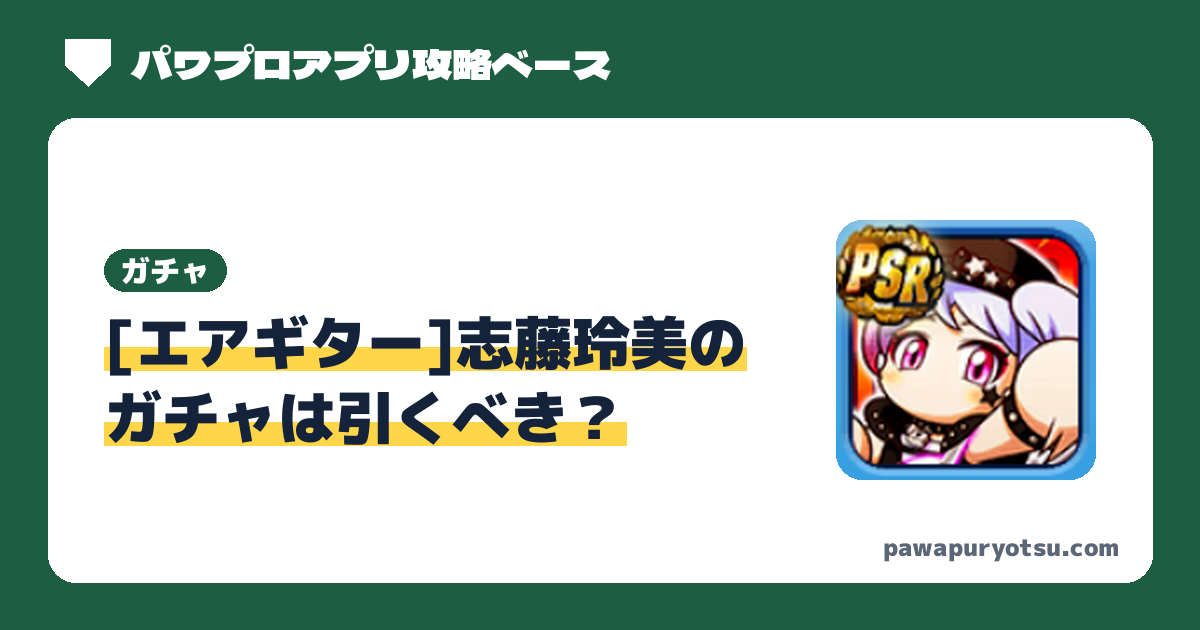
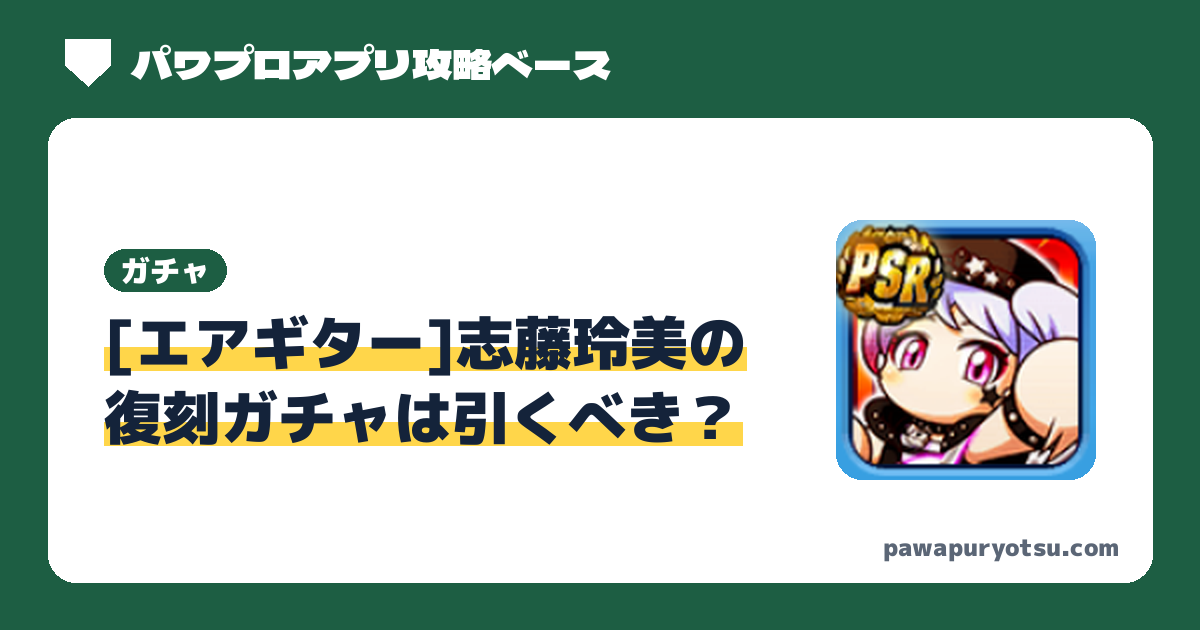
志藤玲美ガチャ記事：タイトル・見出しを「復刻ガチャは引くべき？」に（json の revival） (#331)
Claude-Session: https://claude.ai/code/session_019YJeT23XKeiK6pKwrHZGnB

Changed region(s): [[0.0617, 0.6032, 0.6167, 0.7238]]

diff --git a/docs/gacha/2026_1116_shido_remi/index.html b/docs/gacha/2026_1116_shido_remi/index.html
@@ -4,13 +4,13 @@
 <meta charset="utf-8">
 <meta name="viewport" content="width=device-width,initial-scale=1,viewport-fit=cover">
 <meta name="color-scheme" content="light">
-<title>[エアギター]志藤玲美のガチャは引くべき？何周で完成するか計算（SR Lv45・PSR Lv50）｜パワプロアプリ攻略ベース</title>
-<meta name="description" content="[エアギター]志藤玲美のガチャは引くべき？ループガチャ [エアギター]志藤玲美（復刻）で[エアギター]志藤玲美のSR Lv45・PSR Lv50を作るのに何周必要かを計算。SR・PSRが引ける確率、Lv40に届く確率、ダイジョーブ博士像を使う場合の確率と、実際に引いて試せるシミュレータつき。">
+<title>[エアギター]志藤玲美の復刻ガチャは引くべき？何周で完成するか計算（SR Lv45・PSR Lv50）｜パワプロアプリ攻略ベース</title>
+<meta name="description" content="[エアギター]志藤玲美の復刻ガチャは引くべき？ループガチャ [エアギター]志藤玲美（復刻）で[エアギター]志藤玲美のSR Lv45・PSR Lv50を作るのに何周必要かを計算。SR・PSRが引ける確率、Lv40に届く確率、ダイジョーブ博士像を使う場合の確率と、実際に引いて試せるシミュレータつき。">
 <link rel="canonical" href="https://pawapuryotsu.com/gacha/2026_1116_shido_remi/">
 <meta property="og:type" content="website">
 <meta property="og:site_name" content="パワプロアプリ攻略ベース">
-<meta property="og:title" content="[エアギター]志藤玲美のガチャは引くべき？何周で完成するか計算（SR Lv45・PSR Lv50）｜パワプロアプリ攻略ベース">
-<meta property="og:description" content="[エアギター]志藤玲美のガチャは引くべき？ループガチャ [エアギター]志藤玲美（復刻）で[エアギター]志藤玲美のSR Lv45・PSR Lv50を作るのに何周必要かを計算。SR・PSRが引ける確率、Lv40に届く確率、ダイジョーブ博士像を使う場合の確率と、実際に引いて試せるシミュレータつき。">
+<meta property="og:title" content="[エアギター]志藤玲美の復刻ガチャは引くべき？何周で完成するか計算（SR Lv45・PSR Lv50）｜パワプロアプリ攻略ベース">
+<meta property="og:description" content="[エアギター]志藤玲美の復刻ガチャは引くべき？ループガチャ [エアギター]志藤玲美（復刻）で[エアギター]志藤玲美のSR Lv45・PSR Lv50を作るのに何周必要かを計算。SR・PSRが引ける確率、Lv40に届く確率、ダイジョーブ博士像を使う場合の確率と、実際に引いて試せるシミュレータつき。">
 <meta property="og:url" content="https://pawapuryotsu.com/gacha/2026_1116_shido_remi/">
 <meta property="og:image" content="https://pawapuryotsu.com/img/og/gacha_2026_1116_shido_remi.png">
 <meta property="og:image:width" content="1200">
@@ -30,7 +30,7 @@
 <script async src="https://www.googletagmanager.com/gtag/js?id=G-F98XGNW3LS"></script>
 <script>window.dataLayer=window.dataLayer||[];function gtag(){dataLayer.push(arguments)}gtag('js',new Date());gtag('config','G-F98XGNW3LS');</script><meta name="google-site-verification" content="ZgxID967oum-2Mm1F5BCX9gvQE_vNl2ZDbXXWfyYP10" />
 <script type="application/ld+json">{"@context": "https://schema.org", "@type": "BreadcrumbList", "itemListElement": [{"@type": "ListItem", "position": 1, "name": "トップ", "item": "https://pawapuryotsu.com/"}, {"@type": "ListItem", "position": 2, "name": "[エアギター]志藤玲美のガチャ", "item": "https://pawapuryotsu.com/gacha/2026_1116_shido_remi/"}]}</script>
-<script type="application/ld+json">{"@context": "https://schema.org", "@type": "Article", "headline": "[エアギター]志藤玲美のガチャは引くべき？何周で完成するか計算（SR Lv45・PSR Lv50）", "datePublished": "2026-11-16", "dateModified": "2026-11-16", "image": "https://pawapuryotsu.com/img/og/gacha_2026_1116_shido_remi.png", "author": {"@type": "Person", "name": "りょーつー", "url": "https://pawapuryotsu.com/about/"}}</script>
+<script type="application/ld+json">{"@context": "https://schema.org", "@type": "Article", "headline": "[エアギター]志藤玲美の復刻ガチャは引くべき？何周で完成するか計算（SR Lv45・PSR Lv50）", "datePublished": "2026-11-16", "dateModified": "2026-11-16", "image": "https://pawapuryotsu.com/img/og/gacha_2026_1116_shido_remi.png", "author": {"@type": "Person", "name": "りょーつー", "url": "https://pawapuryotsu.com/about/"}}</script>
 </head>
 <body data-root="../../">
 <svg width="0" height="0" style="position:absolute" aria-hidden="true">
@@ -58,7 +58,7 @@
 
 <main><div class="wrap" id="page">
 <nav class="crumbs" aria-label="パンくずリスト"><ol><li><a href="../../">トップ</a></li><li aria-current="page">[エアギター]志藤玲美のガチャ</li></ol></nav>
-<section class="phead"><p class="eyebrow">ガチャ</p><h1><span class="mk"><i>[エアギター]志藤玲美の</i><i>ガチャは</i> <i>引くべき？</i></span></h1><p class="pubdate">公開日 <time datetime="2026-11-16">2026/11/16</time>・更新日 <time datetime="2026-11-16">2026/11/16</time></p><p>ループガチャ [エアギター]志藤玲美（復刻）で、[エアギター]志藤玲美のSR Lv45・PSR Lv50を作るのに何周必要かを<span class="cp-nw">計算しました。</span>引くべきか迷っている人は、下の確率と<span class="cp-nw">石の数を目安にしてください。</span></p></section>
+<section class="phead"><p class="eyebrow">ガチャ</p><h1><span class="mk"><i>[エアギター]志藤玲美の</i><i>復刻ガチャは</i> <i>引くべき？</i></span></h1><p class="pubdate">公開日 <time datetime="2026-11-16">2026/11/16</time>・更新日 <time datetime="2026-11-16">2026/11/16</time></p><p>ループガチャ [エアギター]志藤玲美（復刻）で、[エアギター]志藤玲美のSR Lv45・PSR Lv50を作るのに何周必要かを<span class="cp-nw">計算しました。</span>引くべきか迷っている人は、下の確率と<span class="cp-nw">石の数を目安にしてください。</span></p></section>
 <div class="prose">
   <div class="g-info"><p class="g-meta"><img src="../../img/chars/0010.png" alt="" width="44" height="44"><span>開催期間：<span class="cp-nw">2026年11月16日(月)14:00</span>〜<span class="cp-nw">12月4日(金)13:59</span><br><a href="../../chars/0010/">[エアギター]志藤玲美の<span class="cp-nw">データ・イベントはこちら</span></a></span></p></div>
   <h2 id="eval">管理人の評価</h2><p>結論：今は様子見でいいです。</p><p>[エアギター]志藤は<span class="tx-r tx-bold">基礎ボーナスの合計が12と最近登場したキャラの中ではかなり低い方で、次期シナリオでは外野育成以外での活躍は期待できません。</span></p><p>新シナリオ実装日は11/26アップデート後が濃厚なので、アンドロメダ学園ラストスパートで遊びたいという人以外は<span class="tx-b tx-bold">11/26のアップデート後まで様子見するのが賢明な判断です。</span></p><p>覚醒が来てくれれば次期シナリオでも活躍できるかも…？</p><p class="cp-evdate"><span class="rk-date">【記入日2026/11/17】</span></p><h3>イベキャラとしての評価</h3><div class="rk-box"><div class="rk-head"><span class="tier tier-S">S</span><a href="../../ranking/andromeda/">アンドロメダ学園 11月ランキング</a><span class="rk-date">【評価日2026/11/09】</span></div></div><div class="rk-box"><div class="rk-head"><span class="tier tier-C">C</span><a href="../../ranking/next_batter/">次期野手シナリオ有能キャラ予想</a><span class="rk-date">【評価日2026/11/11】</span></div></div><p><a href="../../chars/0010/">[エアギター]志藤玲美の<span class="cp-nw">ページを見る</span></a></p>

diff --git a/docs/chars/0010/index.html b/docs/chars/0010/index.html
@@ -65,7 +65,7 @@
 <section class="cp-sec"><h2>[エアギター]志藤玲美<span class="cp-tail">の評価</span></h2><div class="rk-box"><div class="rk-head"><span class="tier tier-S">S</span><a href="../../ranking/andromeda/">アンドロメダ学園 11月ランキング</a><span class="rk-date">【評価日2026/11/09】</span></div></div><div class="rk-box"><div class="rk-head"><span class="tier tier-C">C</span><a href="../../ranking/next_batter/">次期野手シナリオ有能キャラ予想</a><span class="rk-date">【評価日2026/11/11】</span></div></div><p>【長所】</p><p>・<span class="tx-b tx-bold">至高の外野手を獲得可能。</span>現在のアンドロメダ学園の外野手育成において必須クラスのキャラクターとなっている。</p><p>・<span class="tx-b">Lv35とPSR50で試合経験点5％しか変わらない</span>ので、上限開放していなくても運用しやすい。</p><p>【短所】</p><p>・イベキャラ全体で見るとコツボナと試合経験点は圧倒的に高い訳ではない。また、肩力を上げるポジションでは精神ブースターは不要なのでやや汎用性に欠ける。</p><p>・基礎ボーナスが12しかないので、次期環境での活躍は厳しいかもしれない。</p><p class="cp-evdate"><span class="rk-date">【記入日2026/11/07】</span></p></section>
 <section class="cp-sec"><h2>[エアギター]志藤玲美<span class="cp-tail">の使用デッキ例</span></h2><div class="cp-deck"><p><a href="../../decks/andromeda/">アンドロメダ学園</a>（外・メイン）</p><img class="r" src="../../img/decks/result_andromeda_10.jpg" alt="アンドロメダ学園のデッキ画像" loading="lazy"><img class="d" src="../../img/decks/main_andromeda_10.jpg" alt="アンドロメダ学園のデッキ画像" loading="lazy"></div><div class="cp-deck"><p><a href="../../decks/andromeda/">アンドロメダ学園</a>（外・メイン）</p><img class="r" src="../../img/decks/result_edo.jpg" alt="アンドロメダ学園のデッキ画像" loading="lazy"><img class="d" src="../../img/decks/main_edo.jpg" alt="アンドロメダ学園のデッキ画像" loading="lazy"></div><details class="cp-more"><summary>その他のデッキはこちらをタップ</summary><div class="cp-deck"><p><a href="../../decks/andromeda/">アンドロメダ学園</a>（二・メイン）</p><img class="r" src="../../img/decks/result_andromeda_6.jpg" alt="アンドロメダ学園のデッキ画像" loading="lazy"><img class="d" src="../../img/decks/main_andromeda_6.jpg" alt="アンドロメダ学園のデッキ画像" loading="lazy"></div><div class="cp-deck"><p><a href="../../decks/andromeda/">アンドロメダ学園</a>（捕・メイン）</p><img class="r" src="../../img/decks/result_andromeda_3.jpg" alt="アンドロメダ学園のデッキ画像" loading="lazy"><img class="d" src="../../img/decks/main_andromeda_3.jpg" alt="アンドロメダ学園のデッキ画像" loading="lazy"></div></details></section>
 <section class="cp-sec"><h2>[エアギター]志藤玲美<span class="cp-tail">の選手能力</span></h2><table class="cp-basic"><tbody><tr><th>選手ランク</th><td><div class="rkline"><span class="rk rk-B" aria-label="ランクB">B</span><b class="nm">74</b></div></td></tr><tr><th>メインポジション</th><td>外</td></tr><tr><th>サブポジション</th><td>なし</td></tr><tr><th>利き腕</th><td>左投左打</td></tr></tbody></table><h3>野手能力</h3><div class="cp-tiles" style="--n:7"><div class="at"><span class="lb">弾道</span><svg class="traj" viewBox="-20 -20 40 40" role="img" aria-label="弾道2"><g transform="rotate(-25)"><path d="M-15 -5H2V-13L16 0L2 13V5H-15Z" fill="#ff9a1a" stroke="#fff" stroke-width="2" stroke-linejoin="round"/></g></svg><b class="nm">2</b></div><div class="at"><span class="lb">ミート</span><span class="rk rk-C" aria-label="ランクC">C</span><b class="nm">69</b></div><div class="at"><span class="lb">パワー</span><span class="rk rk-C" aria-label="ランクC">C</span><b class="nm">62</b></div><div class="at"><span class="lb">走力</span><span class="rk rk-B" aria-label="ランクB">B</span><b class="nm">71</b></div><div class="at"><span class="lb">肩力</span><span class="rk rk-D" aria-label="ランクD">D</span><b class="nm">55</b></div><div class="at"><span class="lb">守備力</span><span class="rk rk-B" aria-label="ランクB">B</span><b class="nm">70</b></div><div class="at"><span class="lb">捕球</span><span class="rk rk-D" aria-label="ランクD">D</span><b class="nm">52</b></div></div><h3>野手特殊能力</h3><div class="cp-sp"><span class="sp sp-blue">走塁○</span><span class="sp sp-blue">アベレージヒッター</span><span class="sp sp-blue">広角打法</span><span class="sp sp-blue">守備職人</span><span class="sp sp-blue">打球ノビ○</span></div><h3>その他特殊能力</h3><div class="cp-sp"><span class="sp sp-green">積極打法</span><span class="sp sp-green">積極盗塁</span><span class="sp sp-green">積極守備</span></div></section>
-<section class="cp-sec"><h2>関連ページ</h2><ul class="rk-list cp-rel"><li><a href="../../chars/">イベキャラ一覧</a></li><li><a href="../../gacha/2026_1116_shido_remi/">[エアギター]志藤玲美のガチャは引くべき？</a></li></ul><h3>アンドロメダ学園 11月ランキングで同じSランクのキャラ</h3><ul class="cp-rel cp-relchips"><li><a href="../../chars/0003/">天道あかね</a></li><li><a href="../../chars/0028/">ピンク</a></li><li><a href="../../chars/0023/">枢木スザク</a></li><li><a href="../../chars/0022/">紅月カレン</a></li><li><a href="../../chars/0002/">早乙女乱馬</a></li><li><a href="../../chars/0018/">パワ子</a></li></ul><h3>次期野手シナリオ有能キャラ予想で同じCランクのキャラ</h3><ul class="cp-rel cp-relchips"><li><a href="../../chars/0028/">ピンク</a></li><li><a href="../../chars/0024/">[応援団]エイル・オーウェン</a></li><li><a href="../../chars/0023/">枢木スザク</a></li><li><a href="../../chars/0002/">早乙女乱馬</a></li><li><a href="../../chars/0012/">フォイボス</a></li><li><a href="../../chars/0018/">パワ子</a></li></ul></section>
+<section class="cp-sec"><h2>関連ページ</h2><ul class="rk-list cp-rel"><li><a href="../../chars/">イベキャラ一覧</a></li><li><a href="../../gacha/2026_1116_shido_remi/">[エアギター]志藤玲美の復刻ガチャは引くべき？</a></li></ul><h3>アンドロメダ学園 11月ランキングで同じSランクのキャラ</h3><ul class="cp-rel cp-relchips"><li><a href="../../chars/0003/">天道あかね</a></li><li><a href="../../chars/0028/">ピンク</a></li><li><a href="../../chars/0023/">枢木スザク</a></li><li><a href="../../chars/0022/">紅月カレン</a></li><li><a href="../../chars/0002/">早乙女乱馬</a></li><li><a href="../../chars/0018/">パワ子</a></li></ul><h3>次期野手シナリオ有能キャラ予想で同じCランクのキャラ</h3><ul class="cp-rel cp-relchips"><li><a href="../../chars/0028/">ピンク</a></li><li><a href="../../chars/0024/">[応援団]エイル・オーウェン</a></li><li><a href="../../chars/0023/">枢木スザク</a></li><li><a href="../../chars/0002/">早乙女乱馬</a></li><li><a href="../../chars/0012/">フォイボス</a></li><li><a href="../../chars/0018/">パワ子</a></li></ul></section>
 </div></main>
 
 <footer class="site"><div class="wrap">

diff --git a/docs/index.html b/docs/index.html
@@ -72,13 +72,13 @@
 </section>
 
 <h2 class="sec"><span class="mk red"><i>最近の更新</i></span></h2>
-<!--recent--><ul class="news recent"><li><a href="./gacha/2026_1116_shido_remi/"><img class="news-icon" src="./img/chars/0010.png" alt="" width="44" height="44" loading="lazy"><span><small class="rc-meta">2026/11/16 更新・ガチャ</small><b>[エアギター]志藤玲美<wbr><span class="cp-nw">のガチャは引くべき？</span></b></span></a></li><li class=rc-noimg><a href="./pawaque/saikyuki/"><span><small class="rc-meta">2026/11/16 更新・パワクエ</small><b>パワクエ西球記の攻略</b></span></a></li><li class=rc-noimg><a href="./pawaque/mission/"><span><small class="rc-meta">2026/11/16 更新・パワクエ</small><b>ミッション報酬まとめ</b></span></a></li><li class=rc-noimg><a href="./pawaque/coach/"><span><small class="rc-meta">2026/11/16 更新・パワクエ</small><b>コーチ専用選手の作り方</b></span></a></li><li class=rc-noimg><a href="./pawaque/basics/"><span><small class="rc-meta">2026/11/16 更新・パワクエ</small><b>パワクエ超基本まとめ</b></span></a></li><li class=rc-noimg><a href="./pawaque/"><span><small class="rc-meta">2026/11/16 更新・パワクエ</small><b>パワクエ攻略まとめ</b></span></a></li><li class=rc-noimg><a href="./guide/limit_break/"><span><small class="rc-meta">2026/11/12 更新・ガイド</small><b>イベキャラの上限開放のルール</b></span></a></li><li><a href="./gacha/2026_1111_shampoo/"><img class="news-icon" src="./img/chars/0042.png" alt="" width="44" height="44" loading="lazy"><span><small class="rc-meta">2026/11/12 更新・ガチャ</small><b>シャンプー<wbr><span class="cp-nw">のガチャは引くべき？</span></b></span></a></li></ul><!--/recent-->
+<!--recent--><ul class="news recent"><li><a href="./gacha/2026_1116_shido_remi/"><img class="news-icon" src="./img/chars/0010.png" alt="" width="44" height="44" loading="lazy"><span><small class="rc-meta">2026/11/16 更新・ガチャ</small><b>[エアギター]志藤玲美<wbr><span class="cp-nw">の復刻ガチャは引くべき？</span></b></span></a></li><li class=rc-noimg><a href="./pawaque/saikyuki/"><span><small class="rc-meta">2026/11/16 更新・パワクエ</small><b>パワクエ西球記の攻略</b></span></a></li><li class=rc-noimg><a href="./pawaque/mission/"><span><small class="rc-meta">2026/11/16 更新・パワクエ</small><b>ミッション報酬まとめ</b></span></a></li><li class=rc-noimg><a href="./pawaque/coach/"><span><small class="rc-meta">2026/11/16 更新・パワクエ</small><b>コーチ専用選手の作り方</b></span></a></li><li class=rc-noimg><a href="./pawaque/basics/"><span><small class="rc-meta">2026/11/16 更新・パワクエ</small><b>パワクエ超基本まとめ</b></span></a></li><li class=rc-noimg><a href="./pawaque/"><span><small class="rc-meta">2026/11/16 更新・パワクエ</small><b>パワクエ攻略まとめ</b></span></a></li><li class=rc-noimg><a href="./guide/limit_break/"><span><small class="rc-meta">2026/11/12 更新・ガイド</small><b>イベキャラの上限開放のルール</b></span></a></li><li><a href="./gacha/2026_1111_shampoo/"><img class="news-icon" src="./img/chars/0042.png" alt="" width="44" height="44" loading="lazy"><span><small class="rc-meta">2026/11/12 更新・ガチャ</small><b>シャンプー<wbr><span class="cp-nw">のガチャは引くべき？</span></b></span></a></li></ul><!--/recent-->
 
 <h2 class="sec"><span class="mk orange"><i>ガチャ</i></span></h2>
 <div class="grid2">
-  <a class="scard" href="./gacha/2026_1116_shido_remi/"><span class="tag p">[エアギター]志藤玲美</span><h3>[エアギター]志藤玲美のガチャは引くべき？</h3><p>SR Lv45・PSR Lv50の完成確率と<span class="cp-nw">シミュレータ。</span></p><span class="go" aria-hidden="true">→</span></a>
-  <a class="scard" href="./gacha/2026_1111_shampoo/"><span class="tag p">シャンプー</span><h3>シャンプーのガチャは引くべき？</h3><p>SR Lv45・PSR Lv50の完成確率と<span class="cp-nw">シミュレータ。</span></p><span class="go" aria-hidden="true">→</span></a>
-  <a class="scard" href="./gacha/2026_1104_ranma_akane/"><span class="tag p">早乙女乱馬・天道あかね</span><h3>早乙女乱馬・天道あかねのガチャは引くべき？</h3><p>SR Lv45・PSR Lv50の完成確率と<span class="cp-nw">シミュレータ。</span></p><span class="go" aria-hidden="true">→</span></a>
+  <a class="scard" href="./gacha/2026_1116_shido_remi/"><span class="tag p">[エアギター]志藤玲美</span><h3><span class="cp-nw">[エアギター]志藤玲美の</span><span class="cp-nw">復刻ガチャは</span><span class="cp-nw">引くべき？</span></h3><p>SR Lv45・PSR Lv50の完成確率と<span class="cp-nw">シミュレータ。</span></p><span class="go" aria-hidden="true">→</span></a>
+  <a class="scard" href="./gacha/2026_1111_shampoo/"><span class="tag p">シャンプー</span><h3><span class="cp-nw">シャンプーの</span><span class="cp-nw">ガチャは</span><span class="cp-nw">引くべき？</span></h3><p>SR Lv45・PSR Lv50の完成確率と<span class="cp-nw">シミュレータ。</span></p><span class="go" aria-hidden="true">→</span></a>
+  <a class="scard" href="./gacha/2026_1104_ranma_akane/"><span class="tag p">早乙女乱馬・天道あかね</span><h3><span class="cp-nw">早乙女乱馬・天道あかねの</span><span class="cp-nw">ガチャは</span><span class="cp-nw">引くべき？</span></h3><p>SR Lv45・PSR Lv50の完成確率と<span class="cp-nw">シミュレータ。</span></p><span class="go" aria-hidden="true">→</span></a>
 </div>
 
 <h2 class="sec"><span class="mk yg"><i>サクセス デッキまとめ</i></span></h2>

diff --git a/gachapages.py b/gachapages.py
@@ -44,6 +44,11 @@ def _rate_table(g):
                if g.get("charas") else f'<p>{e(g["chara"])}のみの枠以外で、そのレアリティが出たときに{e(g["chara"])}になる割合：{share}</p>'))
 
 
+def gw(g):
+    """タイトル・見出しでの呼び方。イベキャラ復刻のガチャ（json の "revival": true）は「復刻ガチャ」（管理人 2026-11-17）"""
+    return "復刻ガチャ" if g.get("revival") else "ガチャ"
+
+
 def _eval_html(g, src_dir):
     """「管理人の評価」。comment＝管理人の考え（文字の色指定 {太:…} などはキャラページと同じ）。
     イベキャラとしての評価は、ランキングでのランクだけ出す（評価文は長くなるので載せない。管理人 2026-11-12）"""
@@ -138,9 +143,9 @@ def _body(g, root_icon, src_dir):
     if multi:
         metas = f'<p>開催期間：{_period(g["period"])}</p>' + metas
     # 見出し：キャラ名の途中で改行しないように、名前ごとに区切る
-    h1 = ("".join(f'<i>{e(ch["chara"])}{"・" if i < len(chs) - 1 else "の"}</i>' for i, ch in enumerate(chs)) + " <i>ガチャは</i> <i>引くべき？</i>"
-          if multi else f'<i>{e(g["chara"])}の</i><i>ガチャは</i> <i>引くべき？</i>' if len(g["chara"]) >= 8   # 長い名前はスマホで名前の途中で折り返さないよう分ける
-          else f'<i>{e(g["chara"])}のガチャは</i> <i>引くべき？</i>')
+    h1 = ("".join(f'<i>{e(ch["chara"])}{"・" if i < len(chs) - 1 else "の"}</i>' for i, ch in enumerate(chs)) + f" <i>{gw(g)}は</i> <i>引くべき？</i>"
+          if multi else f'<i>{e(g["chara"])}の</i><i>{gw(g)}は</i> <i>引くべき？</i>' if len(g["chara"]) >= 8   # 長い名前はスマホで名前の途中で折り返さないよう分ける
+          else f'<i>{e(g["chara"])}の{gw(g)}は</i> <i>引くべき？</i>')
     nm = lambda ch: e(ch.get("short", ch["chara"]))
     both_notes = [
         "選択ガチャ券は取っておき、引き終わってから、2人とも完成する確率が一番高くなるように2人に分けて使います（1人ずつの確率では、券を全部そのキャラに使います）。",
@@ -244,12 +249,12 @@ def generate(src):
         else:
             g["tables"] = load(f.stem)
         path = f'gacha/{g["id"]}/'
-        meta = (f'title: {g["chara"]}のガチャは引くべき？何周で完成するか計算（SR Lv45・PSR Lv50）｜パワプロアプリ攻略ベース\n'
-                f'description: {g["chara"]}のガチャは引くべき？{g["title"]}で{g["chara"]}のSR Lv45・PSR Lv50を作るのに何周必要かを計算。SR・PSRが引ける確率、Lv40に届く確率、ダイジョーブ博士像を使う場合の確率と、実際に引いて試せるシミュレータつき。\n'
+        meta = (f'title: {g["chara"]}の{gw(g)}は引くべき？何周で完成するか計算（SR Lv45・PSR Lv50）｜パワプロアプリ攻略ベース\n'
+                f'description: {g["chara"]}の{gw(g)}は引くべき？{g["title"]}で{g["chara"]}のSR Lv45・PSR Lv50を作るのに何周必要かを計算。SR・PSRが引ける確率、Lv40に届く確率、ダイジョーブ博士像を使う場合の確率と、実際に引いて試せるシミュレータつき。\n'
                 f"path: {path}\nnav: home\nscripts: gacha\ncrumb: {g['chara']}のガチャ\n"
-                f"og_title: {g['chara']}のガチャは引くべき？\nrecent_title: {g['chara']}のガチャは引くべき？\nog_icon: {(g.get('charas') or [g])[0]['icon']}\n")
+                f"og_title: {g['chara']}の{gw(g)}は引くべき？\nrecent_title: {g['chara']}の{gw(g)}は引くべき？\nog_icon: {(g.get('charas') or [g])[0]['icon']}\n")
         pages.append(f"<!--\n{meta}-->\n" + _body(g, "", src))
-        cards.append((g["id"], f'<a class="scard" href="{{{{root}}}}{path}"><span class="tag p">{e(g["chara"])}</span><h3>{e(g["chara"])}のガチャは引くべき？</h3>'
+        cards.append((g["id"], f'<a class="scard" href="{{{{root}}}}{path}"><span class="tag p">{e(g["chara"])}</span><h3><span class="cp-nw">{e(g["chara"])}の</span><span class="cp-nw">{gw(g)}は</span><span class="cp-nw">引くべき？</span></h3>'
                                f'<p>SR Lv45・PSR Lv50の完成確率と<span class="cp-nw">シミュレータ。</span></p><span class="go" aria-hidden="true">→</span></a>'))
     cards.sort(key=lambda x: x[0], reverse=True)   # 新しいガチャを上に
     return pages, "\n  ".join(c for _, c in cards)

diff --git a/build.py b/build.py
@@ -301,7 +301,7 @@ _page_info = []   # (path, 名前, 更新日, 公開日, 種類, アイコン)
 
 def _nice_break(name):
     """「…のガチャは引くべき？」「…のイベント・評価」の後ろ半分は途中で折り返さない（スマホで「あか／ねの」のように切れないように）"""
-    m = re.match(r"(.*)(の(?:ガチャは引くべき？|イベント・評価|イベント))$", name)
+    m = re.match(r"(.*)(の(?:(?:復刻)?ガチャは引くべき？|イベント・評価|イベント))$", name)
     if not m:
         return _html.escape(name)
     return f'{_html.escape(m.group(1))}<wbr><span class="cp-nw">{_html.escape(m.group(2))}</span>'

diff --git a/charpages.py b/charpages.py
@@ -668,7 +668,7 @@ def gacha_links(name):
     for g in _GACHAS:
         chs = g.get("charas") or [{"chara": g.get("chara")}]
         if any(ch.get("chara") == name for ch in chs):
-            out.append((f'gacha/{g["id"]}/', f'{g["chara"]}のガチャは引くべき？'))
+            out.append((f'gacha/{g["id"]}/', f'{g["chara"]}の{"復刻" if g.get("revival") else ""}ガチャは引くべき？'))
     return out
 
 

diff --git a/README.md b/README.md
@@ -135,7 +135,7 @@
 - 表の「100%」は、失敗する可能性のある手持ちが1つも残らないとき（例：確定枠で必ずそろう）だけ。計算の誤差で1に見えても失敗の可能性が残っていれば「ほぼ100%」と出す（`build_tables.py` の `fails`）。
 - 出現率アップキャラが2人以上のガチャ（例 `2026_1104_ranma_akane`）は json に `charas`（key・chara・char_page・icon・extra）を書く。`share` と `only` の枠は公式の「2人合計」の値をそのまま入れ、計算は人数で等分する。表はキャラごとに `<id>_<key>.tables.json`・`gacha_t/<id>_<key>.bin` ができ、ページでキャラを切り替えて見る。
 - 選択ガチャ券などで目当てキャラを必ず選べる分は、そのステップの枠に `"target": "pick"`（例 `{"n": 1, "label": "おまけ：「SR」選択ガチャ券", "rarity": {"SR": 100}, "target": "pick"}`）で入れる。連数（pulls）には含めない。
-- **旧バージョンの手持ちの入力欄**（2026-11-12）：旧バージョンがあるキャラのガチャは、json に `"old_ver": true` を書くと「旧バージョンの○○を持っている場合」の入力欄（PSR・SR・PR・R × +0〜+5 の枚数）が出る。「計算する」を押すと、ブラウザがその場で計算して表とシミュレータが旧バージョン込みの確率（1%きざみ）になる。旧バージョンの名前が今回と違うとき（例：今回が二つ名つきで旧バージョンは二つ名なし）は `"old_name"` に入力欄の見出しで使う名前を書く（例 `"志藤玲美（[エアギター]以外）"`）。そのガチャだけの注意は `"notes"`（文字列のリスト）に書くと「計算のしかた（注意）」に入る。
+- **旧バージョンの手持ちの入力欄**（2026-11-12）：旧バージョンがあるキャラのガチャは、json に `"old_ver": true` を書くと「旧バージョンの○○を持っている場合」の入力欄（PSR・SR・PR・R × +0〜+5 の枚数）が出る。「計算する」を押すと、ブラウザがその場で計算して表とシミュレータが旧バージョン込みの確率（1%きざみ）になる。旧バージョンの名前が今回と違うとき（例：今回が二つ名つきで旧バージョンは二つ名なし）は `"old_name"` に入力欄の見出しで使う名前を書く（例 `"志藤玲美（[エアギター]以外）"`）。そのガチャだけの注意は `"notes"`（文字列のリスト）に書くと「計算のしかた（注意）」に入る。 イベキャラ復刻のガチャは `"revival": true` を書くと、タイトル・見出しが「○○の復刻ガチャは引くべき？」になる。
   - 計算は `src/assets/gacha_old.js`（Web Worker）＋`gacha_calc/old.c`（→ `src/assets/gacha_old.wasm`。old.c を変えたら、ファイル先頭のコマンドで作り直す）。build_tables.py は関係ない。
   - 方式：旧カードを先に使い（旧同士の合成・新カードを旧カードに合成、なども調べる）、残りの新カードは今までの表（gacha_v）で合成。合成の順番を全部は調べていないので、少し低めに出る（検算は `gacha_calc/old_check/README.md`。周回ごとの確率で最大1ポイントほど）。記事の「計算のしかた」に自動で注意書きが入る。
   - 管理人が決めたルール：旧バージョンが2種類以上あってもまとめて1つ扱い／同じ旧バージョン同士は素材が上限開放済みでも100%で+1／別バージョン同レアリティ+5素材の「75%で+3」は推測値のまま使う／上限開放済みの旧PSRは新SRに合成しない（未検証）。
